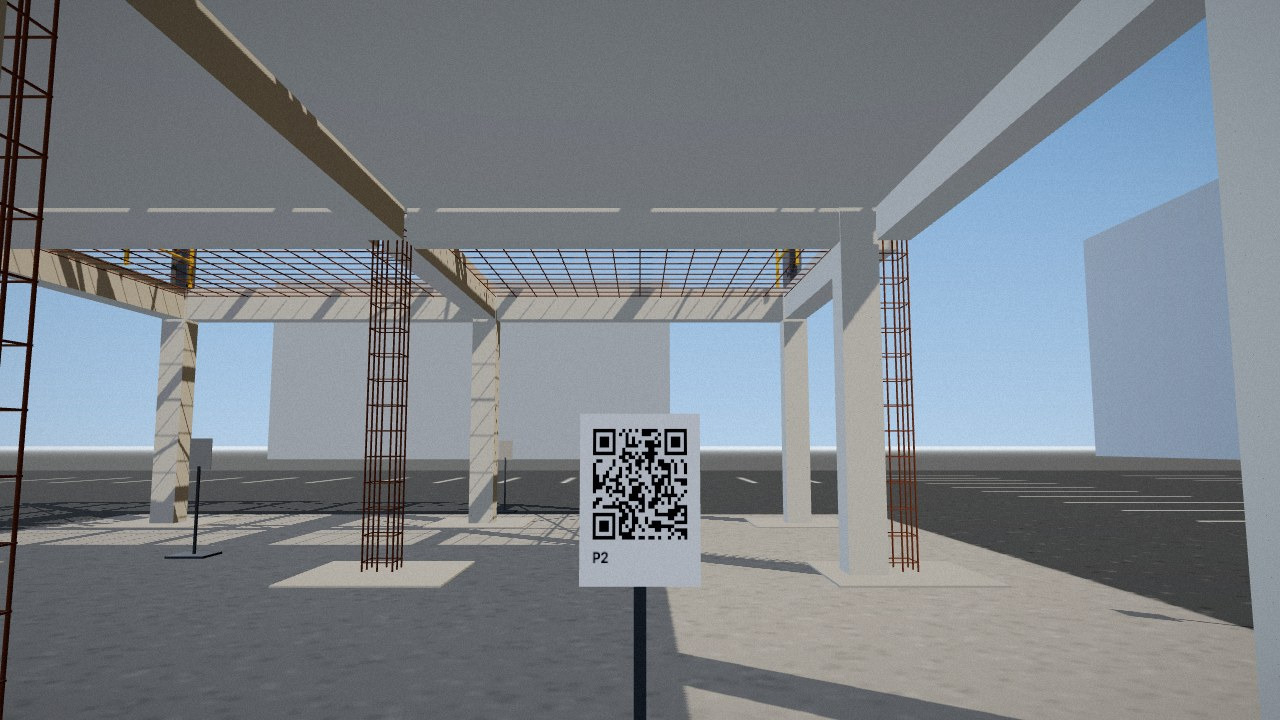
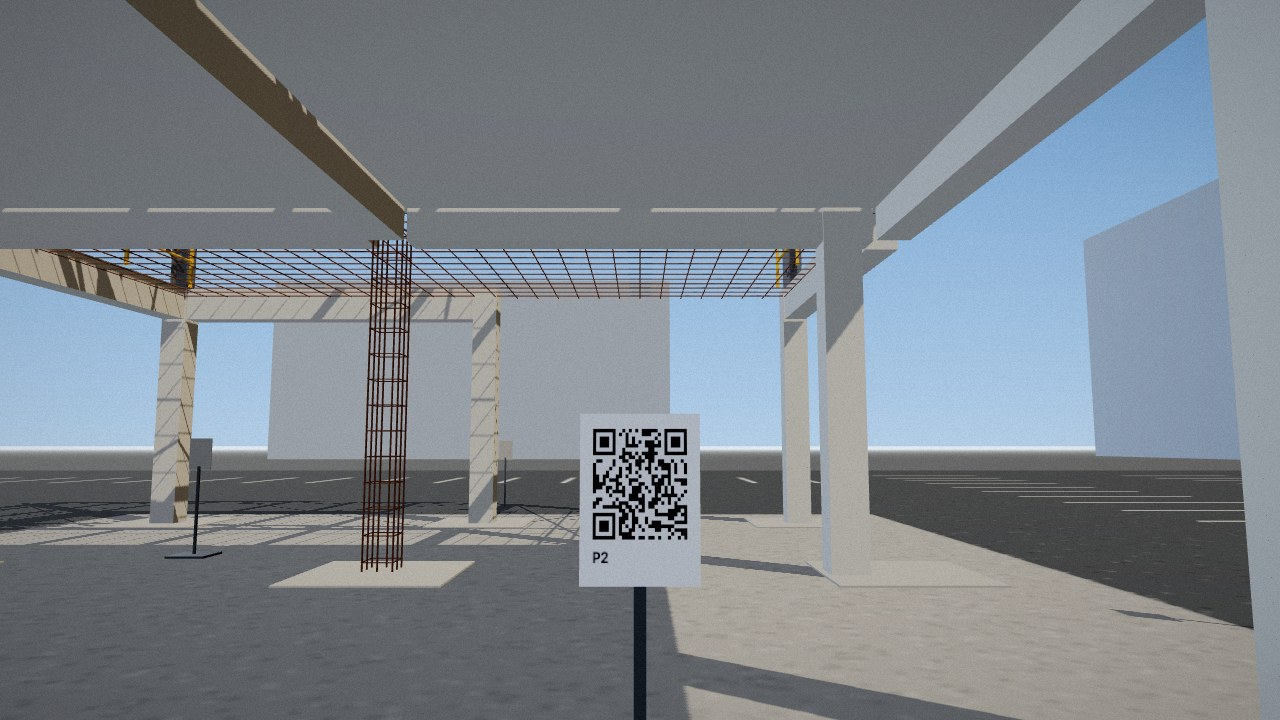
fix: the as-built check sees what's wrong: readable design render, clearer 'missing', resolvable defects (#94)
Live Gemini at P2 found 0 of 3 planted defects; it called a bare rebar cage a column.
- design render (IMAGE 2): each element type in its own colour (the viewer's key), flat-shaded under a key
  light from the camera's upper left, instead of one flat blue silhouette for columns, beams and members
- prompt: 'missing' includes only partly built (a column where only its cage stands, a gap where a brace,
  member or guardrail should be); colours mean element types; look closely before present_ok
- planted defects resized to what a camera can resolve from each spot (no thin braces 20 m away); the open
  bay's beams not cast; shifted columns take their cages with them (the stray cage confused Gemini) and are
  60 cm out
- after the fixes, live gemini-3.6-flash at P2 found 3 of 5 planted defects, no false alarms
- still photos re-rendered

diff --git a/web/src/scene/idBuffer.ts b/web/src/scene/idBuffer.ts
@@ -8,8 +8,8 @@
  * planes (look.clipPlanes(), updated at the snapshot pose) are applied to the override materials.
  */
 import {
-  Color, DoubleSide, Mesh, MeshBasicMaterial, NoToneMapping, RGBAFormat, UnsignedByteType, WebGLRenderTarget,
-  type Camera, type Material, type Plane, type Scene, type WebGLRenderer,
+  Color, DirectionalLight, DoubleSide, HemisphereLight, Mesh, MeshBasicMaterial, MeshLambertMaterial, NoToneMapping, RGBAFormat,
+  UnsignedByteType, WebGLRenderTarget, type Camera, type Material, type Plane, type Scene, type WebGLRenderer,
 } from 'three'
 import { idColor } from './elements'
 import type { LoadedModel } from './loadModel'
@@ -91,17 +91,29 @@ const LINEAR_TO_SRGB = Uint8ClampedArray.from({ length: 256 }, (_, i) => {
 })
 
 /** An opaque render of the design (top-down RGBA rows) at the photo size, for Gemini's IMAGE 2. */
+/**
+ * The design as Gemini sees it (IMAGE 2): each element type in its own colour (the 3D viewer's key), shaded by a light
+ * from the camera's upper left, so columns, beams and members read as separate solids instead of one flat silhouette.
+ * `colourOf` gives an element's colour; the lights are added for this render only.
+ */
 export async function renderDesignImage(renderer: WebGLRenderer, scene: Scene, model: LoadedModel, camera: Camera,
-  width: number, height: number, classOf: (guid: string) => string, clip: readonly Plane[] = []): Promise<ImageData> {
-  const cache = new Map<number, MeshBasicMaterial>()
+  width: number, height: number, colourOf: (guid: string) => number, clip: readonly Plane[] = []): Promise<ImageData> {
+  const cache = new Map<number, MeshLambertMaterial>()
   const material = (mesh: Mesh) => {
-    const cls = classOf(model.meshGuid.get(mesh)!)
-    const hex = DESIGN_COLOURS.find(([re]) => re.test(cls))?.[1] ?? 0xd9d9d9
+    const hex = colourOf(model.meshGuid.get(mesh)!)
     if (!cache.has(hex)) {
-      cache.set(hex, new MeshBasicMaterial({ color: hex, side: DoubleSide, polygonOffset: true, polygonOffsetFactor: 1, clippingPlanes: clipFor(clip) }))
+      cache.set(hex, new MeshLambertMaterial({
+        color: hex, side: DoubleSide, flatShading: true, polygonOffset: true, polygonOffsetFactor: 1, clippingPlanes: clipFor(clip),
+      }))
     }
     return cache.get(hex)!
   }
+  // The AR camera sits at the origin looking down -z: light from its upper left, plus sky light so shade isn't black.
+  const sky = new HemisphereLight(0xffffff, 0x8a96a3, 1.5)
+  const key = new DirectionalLight(0xffffff, 2.2)
+  key.position.set(-0.6, 1, 0.8)
+  key.target.position.set(0, 0, -1)
+  scene.add(sky, key, key.target)
   try {
     const buf = await renderWith(renderer, scene, model, camera, width, height, material, new Color(0xf4f6f8), clip)
     const out = new ImageData(width, height)
@@ -117,6 +129,12 @@ export async function renderDesignImage(renderer: WebGLRenderer, scene: Scene, m
     }
     return out
   } finally {
+    scene.remove(sky, key, key.target)
     cache.forEach((m) => m.dispose())
   }
+}
+
+/** Fallback design colours by IFC class, for elements the palette doesn't know. */
+export function designColourOfClass(cls: string): number {
+  return DESIGN_COLOURS.find(([re]) => re.test(cls))?.[1] ?? 0xd9d9d9
 }

diff --git a/web/src/sim/asBuilt.ts b/web/src/sim/asBuilt.ts
@@ -5,26 +5,30 @@
  */
 export type ViewpointId = 'P1' | 'P2' | 'P3' | 'P4'
 
-/** One deviation of the as-built from the design; `featuredAt` is the QR spot whose opening view shows it. */
+/**
+ * One deviation of the as-built from the design; `featuredAt` is the QR spot whose opening view shows it. A shifted
+ * concrete column takes its rebar cage with it (`alsoMoves`), as it would on site.
+ */
 export type Deviation =
   | { element: string; kind: 'missing'; note?: string; featuredAt: ViewpointId }
-  | { element: string; kind: 'shifted'; offsetM: [number, number, number]; featuredAt: ViewpointId }
+  | { element: string; kind: 'shifted'; offsetM: [number, number, number]; alsoMoves?: string[]; featuredAt: ViewpointId }
 
 /**
- * Realistic site defects: setting-out errors, a column not cast yet, steel not erected or left out, a missing
- * guardrail. Each QR spot opens with two or three of them in view (asBuilt.test.ts checks the framing).
+ * Realistic site defects, each big enough for a camera to resolve from its QR spot (thin bracing far away is not):
+ * an uncast column, setting-out errors, the open bay's beams not cast, steel not erected, a missing guardrail.
+ * Each spot opens with two or three of them in view (asBuilt.test.ts checks the framing).
  */
 export const SITE_AS_BUILT: readonly Deviation[] = [
   { element: 'RC column C2', kind: 'missing', note: 'not cast yet: only its rebar cage stands', featuredAt: 'P1' },
-  { element: 'RC column B2', kind: 'shifted', offsetM: [-0.4, 0, 0], featuredAt: 'P1' },
-  { element: 'Brace wall north C-D (2)', kind: 'missing', featuredAt: 'P1' },
-  { element: 'RC column C1', kind: 'shifted', offsetM: [0, 0.4, 0], featuredAt: 'P2' },
-  { element: 'Edge protection east', kind: 'missing', note: 'missing (a fall hazard at level 1)', featuredAt: 'P2' },
+  { element: 'RC column B2', kind: 'shifted', offsetM: [-0.6, 0, 0], alsoMoves: ['Column cage B2'], featuredAt: 'P1' },
+  { element: 'RC column C1', kind: 'shifted', offsetM: [0, 0.6, 0], alsoMoves: ['Column cage C1'], featuredAt: 'P2' },
+  { element: 'Beam C2-D2', kind: 'missing', note: 'not cast yet: the open bay is still to pour', featuredAt: 'P2' },
+  { element: 'Beam D1-D2', kind: 'missing', note: 'not cast yet: the open bay is still to pour', featuredAt: 'P2' },
   { element: 'Truss T3 vertical 7', kind: 'missing', featuredAt: 'P3' },
   { element: 'Purlin P6 B-C', kind: 'missing', featuredAt: 'P3' },
   { element: 'Edge beam B3-C3', kind: 'missing', note: 'not erected yet', featuredAt: 'P3' },
-  { element: 'Truss T3 diagonal 4', kind: 'missing', featuredAt: 'P4' },
-  { element: 'Brace roof south A-B (1)', kind: 'missing', featuredAt: 'P4' },
+  { element: 'Edge protection east', kind: 'missing', note: 'missing (a fall hazard at level 1)', featuredAt: 'P4' },
+  { element: 'Purlin P4 C-D', kind: 'missing', featuredAt: 'P4' },
 ]
 
 /** Compass word for a plan offset (IFC x east, y north, z up). */

diff --git a/web/src/check/runCheck.ts b/web/src/check/runCheck.ts
@@ -10,7 +10,8 @@ import { modelMatrixIfc, projectionMatrixGL, type Intrinsics, type Pose } from '
 import { applyProjection } from '../scene/arCamera'
 import { poseAnchor } from '../scene/arMath'
 import { visibleFromIdBuffer } from '../scene/elements'
-import { renderDesignImage, renderIdBuffer } from '../scene/idBuffer'
+import { designColourOfClass, renderDesignImage, renderIdBuffer } from '../scene/idBuffer'
+import { KIND_COLOURS, paintOf } from '../scene/palette'
 import type { LoadedModel } from '../scene/loadModel'
 import { viewNote, type ConstructionLook } from '../scene/look'
 import { drawMarks, markCentres, selectMarks } from './marks'
@@ -107,7 +108,7 @@ export async function runCheck(input: CheckInput): Promise<CheckOutcome> {
       return { response: null, saved: null, error: new ApiError('nothing_visible', 0, 'nothing_visible'), marks, render: null, viewNote: note }
     }
     const design = await renderDesignImage(renderer, scene, model, cameraFor(K, videoW, videoH, photoW, photoH), photoW, photoH,
-      (guid) => input.elements.get(guid)?.ifc_class ?? '', clip)
+      (guid) => designColour(input.elements.get(guid)), clip)
     const canvas = document.createElement('canvas')
     canvas.width = photoW
     canvas.height = photoH
@@ -141,4 +142,11 @@ export async function runCheck(input: CheckInput): Promise<CheckOutcome> {
     }
     return { response: null, saved: null, error: err, marks, render, viewNote: note }
   }
+}
+
+/** An element's colour in the design render: its palette type colour (the 3D viewer's key), else by IFC class. */
+function designColour(el: Element | undefined): number {
+  if (!el) return designColourOfClass('')
+  const { kind } = paintOf(el)
+  return kind === 'other' || kind === 'opening' ? designColourOfClass(el.ifc_class) : KIND_COLOURS[kind]
 }

diff --git a/web/src/ui/siteViewpoints.ts b/web/src/ui/siteViewpoints.ts
@@ -19,10 +19,10 @@ export const STAND_OFF_M = 1.5
 export const CODE_HEIGHT_M = 1.4
 
 export const SITE_VIEWPOINTS: readonly Viewpoint[] = [
-  { id: 'P1', name: 'South approach', stand: [9, -4], look: [0, 1], shows: 'The concrete storey and the north wall bracing', startPitchDeg: 14 },
-  { id: 'P2', name: 'Under the slab', stand: [3, 3], look: [1, 0], shows: 'Concrete columns and the east slab edge', startPitchDeg: 8 },
+  { id: 'P1', name: 'South approach', stand: [9, -4], look: [0, 1], shows: 'The concrete storey from the south', startPitchDeg: 14 },
+  { id: 'P2', name: 'Under the slab', stand: [3, 3], look: [1, 0], shows: 'Concrete columns and the open bay\'s beams', startPitchDeg: 8 },
   { id: 'P3', name: 'Under the open bay', stand: [15, 9], look: [-1, 0], shows: 'The trusses and purlins overhead', startPitchDeg: 50 },
-  { id: 'P4', name: 'East gable', stand: [22, 6], look: [-1, 0], shows: 'The trusses and the roof bracing', startPitchDeg: 28 },
+  { id: 'P4', name: 'East gable', stand: [22, 6], look: [-1, 0], shows: 'The east edge and the roof over the open bay', startPitchDeg: 34 },
 ]
 
 const COMPASS: Record<string, string> = { '0,1': 'north', '0,-1': 'south', '1,0': 'east', '-1,0': 'west' }

diff --git a/web/src/sim/world.ts b/web/src/sim/world.ts
@@ -54,7 +54,15 @@ export function makeAsBuilt(model: LoadedModel, elements: readonly Element[], de
     const node = e && model.byGuid.get(e.guid)
     if (!node) throw new Error(`as-built: no element named ${d.element}`)
     if (d.kind === 'missing') node.visible = false
-    else node.position.add(new Vector3(d.offsetM[0], d.offsetM[2], -d.offsetM[1])) // IFC (x, y, z) -> glTF (x, z, -y)
+    else {
+      const move = new Vector3(d.offsetM[0], d.offsetM[2], -d.offsetM[1]) // IFC (x, y, z) -> glTF (x, z, -y)
+      for (const name of [d.element, ...(d.alsoMoves ?? [])]) {
+        const e2 = byName.get(name)
+        const n2 = e2 && model.byGuid.get(e2.guid)
+        if (!n2) throw new Error(`as-built: no element named ${name}`)
+        n2.position.add(move)
+      }
+    }
   }
   model.ifcRoot.updateMatrixWorld(true)
 }

diff --git a/web/src/sim/asBuilt.test.ts b/web/src/sim/asBuilt.test.ts
@@ -7,7 +7,10 @@ const elements: { name: string }[] = JSON.parse(readFileSync(new URL('../../../b
 describe('SITE_AS_BUILT', () => {
   it('names real elements of the site model, each once', () => {
     const names = new Set(elements.map((e) => e.name))
-    for (const d of SITE_AS_BUILT) expect(names.has(d.element), d.element).toBe(true)
+    for (const d of SITE_AS_BUILT) {
+      expect(names.has(d.element), d.element).toBe(true)
+      if (d.kind === 'shifted') for (const n of d.alsoMoves ?? []) expect(names.has(n), n).toBe(true)
+    }
     expect(new Set(SITE_AS_BUILT.map((d) => d.element)).size).toBe(SITE_AS_BUILT.length)
   })
 

diff --git a/web/src/scene/idBuffer.test.ts b/web/src/scene/idBuffer.test.ts
@@ -62,7 +62,7 @@ describe('renderIdBuffer and renderDesignImage judge what is shown', () => {
       constructor(width: number, height: number) { this.data = new Uint8ClampedArray(width * height * 4) }
     })
     const { m, scene, camera, renderer, drawn } = setup()
-    await renderDesignImage(renderer, scene, m, camera, 8, 4, () => 'IfcBeam', [cut()])
+    await renderDesignImage(renderer, scene, m, camera, 8, 4, () => 0x16b9d4, [cut()])
     expect(drawn.every((d) => d.clip.length === 1 && d.localClipping)).toBe(true)
   })
 

diff --git a/server/app/gemini_client.py b/server/app/gemini_client.py
@@ -227,11 +227,11 @@ def _ask_schema(allowed_fields: list[str]) -> dict:
 
 CHECK_SYSTEM = """\
 You compare a construction site photo with the design model rendered from the same viewpoint.
-IMAGE 1 is the photo of what is built. IMAGE 2 is the design render; numbered marks sit at the centre of each listed element.
+IMAGE 1 is the photo of what is built. IMAGE 2 is the design render; numbered marks sit at the centre of each listed element. Its colours show element types (columns, beams, members, rebar), not real materials: compare each element's shape and position, and look closely at each mark before answering present_ok.
 A printed QR code in the photo anchors the design model to the site; distance_m in the task is the camera's distance from it in metres. The QR code is not an element to check.
 For each numbered element, judge only what the photo shows:
 - present_ok: present and matching the design
-- missing: should be visible but is not there
+- missing: should be visible but is not there, or only part of it is built (for example a concrete column where only its rebar cage stands, or a gap where a brace, a member or a guardrail should be)
 - misplaced: present but in a different place; give the direction from the design position to the built position (left, right, up or down as seen in the photo; forward = nearer the camera, back = further from the camera) and a rough distance in tens of centimetres
 - different_from_design: present in the right place but clearly different (size, type, shape)
 - cannot_judge: hidden, out of frame, too dark or too small to tell
